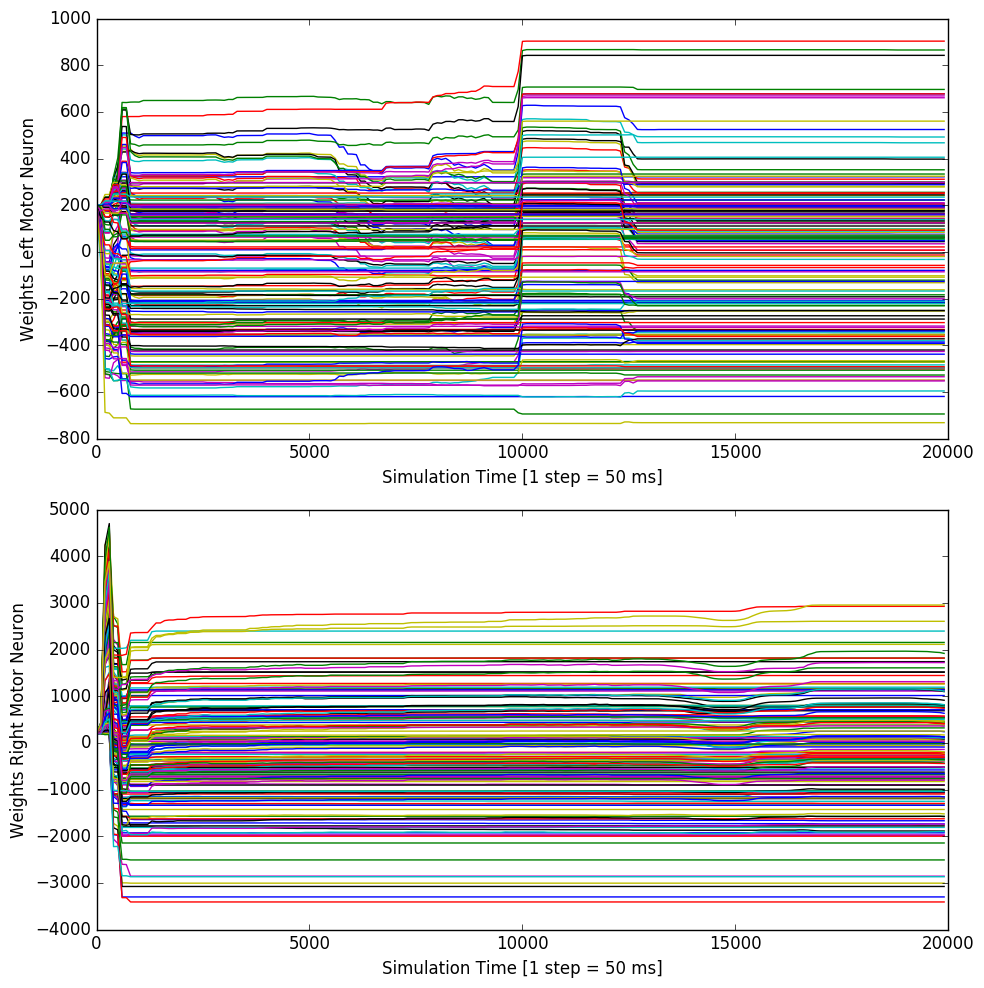
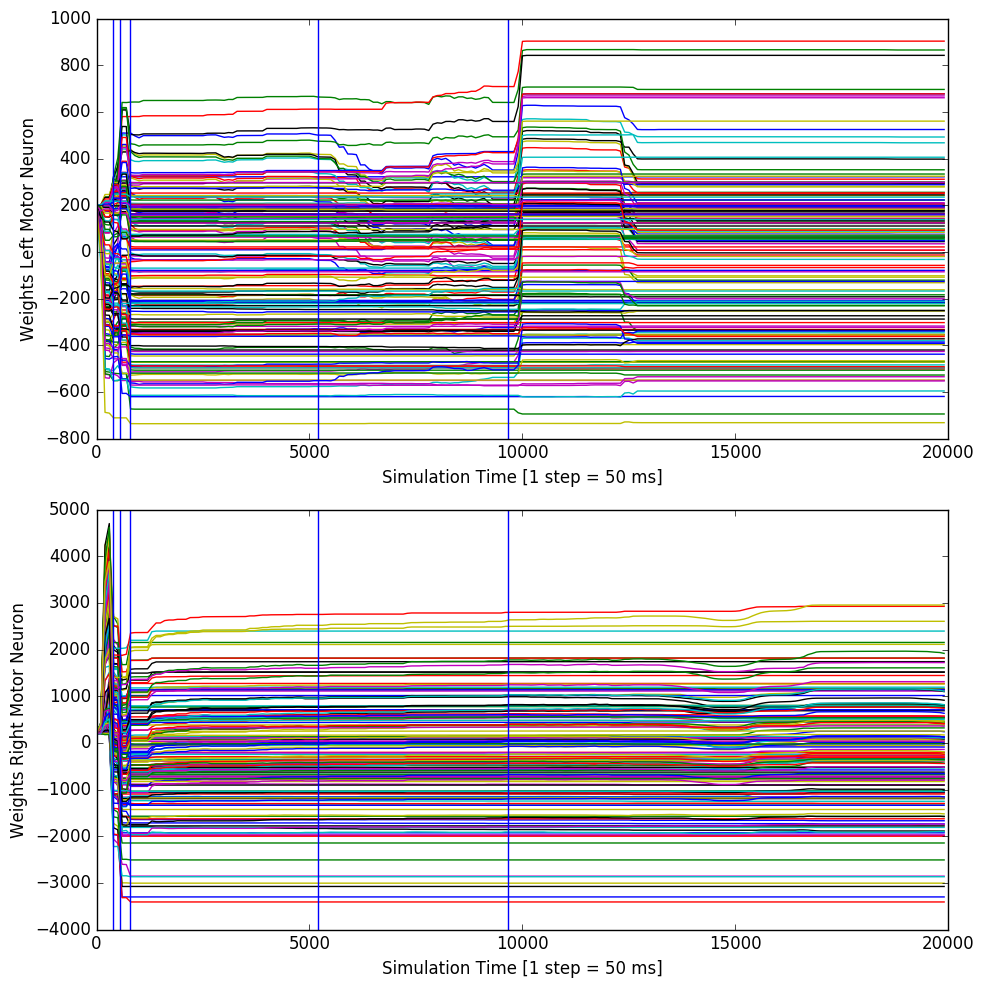
Added vertical line in weights over time plot

Changed region(s): [[0.0915, 0.5162, 0.1524, 0.9413], [0.0915, 0.0304, 0.1524, 0.4555]]

diff --git a/Controller/plot_rstdp_weights_over_steps.py b/Controller/plot_rstdp_weights_over_steps.py
@@ -11,8 +11,14 @@ h5f = h5py.File(params.path + '/rstdp_data.h5', 'r')
 w_l = np.array(h5f['w_l'], dtype=float)
 w_r = np.array(h5f['w_r'], dtype=float)
 w_i = np.array(h5f['w_i'], dtype=float)
+steps = np.array(h5f['steps'], dtype = float)
 
-print w_l.shape
+steps_cumulative = np.zeros(steps.size)
+
+sum = 0
+for k in range(steps.size):
+    sum += steps[k]
+    steps_cumulative[k] = sum
 
 xlabels = ['Simulation Time [1 step = 50 ms]','Simulation Time [1 step = 50 ms]']
 ylabels = ['Weights Left Motor Neuron', 'Weights Right Motor Neuron']
@@ -29,6 +35,8 @@ def plt_weights_over_steps(index, xlabel, ylabel, data):
     for i in range(data.shape[1]):
         for j in range(data.shape[2]):
             plt.plot(w_i, data[:,i,j])
+    for k in range(steps_cumulative.size):
+        plt.axvline(x=steps_cumulative[k])
 
 fig = plt.figure(figsize=(10, 5*len(data)))
 

diff --git a/Controller/parameters.py b/Controller/parameters.py
@@ -1,6 +1,6 @@
 #!/usr/bin/env python
 
-session = "session_010"
+session = "session_013"
 test_on = ""
 path = "../data/" + session        # Path for saving data
 comment = "train on scenario_1_5"

diff --git a/todo.md b/todo.md
@@ -38,7 +38,6 @@
 - Code rework + comments
   - Snake Lua script remove comments
   - Remove debug comments
-- Mark episodes on weights change over time plot
 - Add training length in VREP
 - In Latex
   - Revise flowcharts: implementation changes, bigger texts
